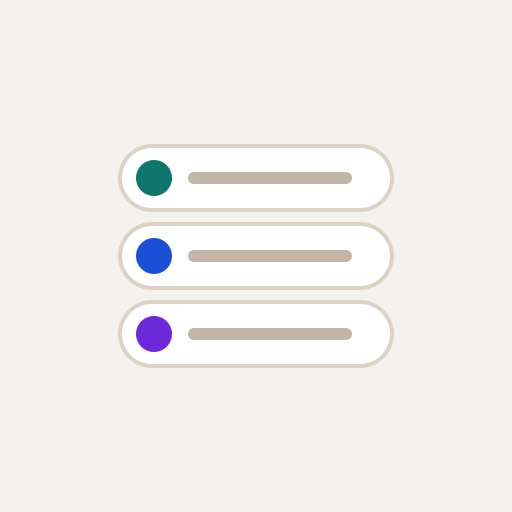
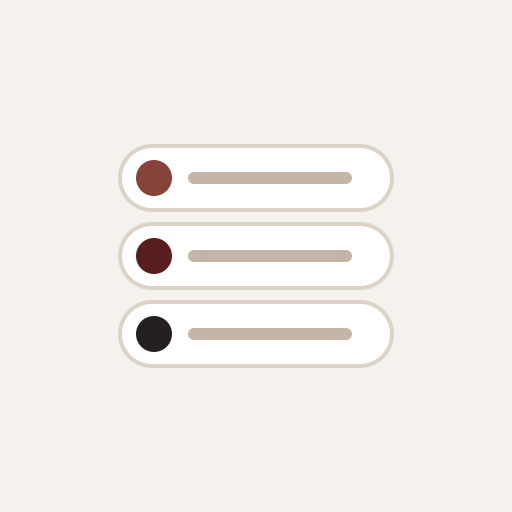
Nur Sorrida-Farben: Gruppenfarben und Hinweise in Bordeaux und Tinte
Die Leiste oben auf den Patientenseiten war je Gruppe blau, türkis oder lila.
Jetzt: Arzt Bordeaux aus dem Logo, Zahn helleres Bordeaux, Therapie Tinte.
Symbole und theme_color neu erzeugt. Weiß auf jeder Farbe mindestens 7 : 1.
Portal-Anamnesekarte, Rechnungsstatus und Hinweise in der App ohne Blau
und Lila. Kassenleistung im Bericht in Salbei.

Claude-Session: https://claude.ai/code/session_01WXeAyDovPdrJmoaZQnGZBQ

Changed region(s): [[0.25, 0.5938, 0.3438, 0.6875], [0.25, 0.4375, 0.3438, 0.5312], [0.25, 0.3125, 0.3438, 0.4062]]

diff --git a/e2e/meine-praxen.js b/e2e/meine-praxen.js
@@ -73,7 +73,7 @@ function aufraeumen() {
     pruef('Hausarzt: Titel der Web-App auf dem iPhone ist der kurze Praxisname', appleTitel === 'Weber', appleTitel);
     pruef('Hausarzt: Symbol im Tab und auf dem Startbildschirm aus der Gruppe', /gruppe-arzt\.svg/.test(await hp.locator('link[rel="icon"]').first().getAttribute('href')) && /gruppe-arzt-180\.png/.test(await hp.locator('link[rel="apple-touch-icon"]').getAttribute('href')));
     const manifestA = await (await hc.request.get(`${L}/portal/${tA}/manifest.webmanifest`)).json();
-    pruef('Hausarzt: Manifest mit kurzem Namen, Farbe und Symbol der Gruppe', manifestA.short_name === 'Weber' && manifestA.theme_color === '#1D4ED8' && manifestA.icons.every((i) => i.src.includes('gruppe-arzt')), JSON.stringify(manifestA).slice(0, 200));
+    pruef('Hausarzt: Manifest mit kurzem Namen, Farbe und Symbol der Gruppe', manifestA.short_name === 'Weber' && manifestA.theme_color === '#5A1D1D' && manifestA.icons.every((i) => i.src.includes('gruppe-arzt')), JSON.stringify(manifestA).slice(0, 200));
     await fotos(hp, '01-portal-hausarzt-390');
     await hp.getByTestId('praxis-merken-knopf').scrollIntoViewIfNeeded();
     await fotos(hp, '02-portal-hausarzt-fuss-390');
@@ -100,7 +100,7 @@ function aufraeumen() {
     pruef('Zahnarzt: Farbstreifen der Gruppe „zahn“', (await hp.getByTestId('praxis-streifen').getAttribute('data-gruppe')) === 'zahn');
     pruef('Zahnarzt: Fach und Ort', (await hp.getByTestId('praxis-kennzeile').innerText()) === 'Zahnarztpraxis · Münster');
     const manifestB = await (await hc.request.get(`${L}/portal/${tB}/manifest.webmanifest`)).json();
-    pruef('Zahnarzt: eigener kurzer Name und eigene Farbe', manifestB.short_name === 'Sonnenberg' && manifestB.theme_color === '#0F766E' && manifestB.short_name !== manifestA.short_name, JSON.stringify(manifestB).slice(0, 160));
+    pruef('Zahnarzt: eigener kurzer Name und eigene Farbe', manifestB.short_name === 'Sonnenberg' && manifestB.theme_color === '#86433A' && manifestB.short_name !== manifestA.short_name, JSON.stringify(manifestB).slice(0, 160));
     await fotos(hp, '05-portal-zahnarzt-390');
     await hp.getByTestId('praxis-merken-knopf').click();
     pruef('Zahnarzt: „Gemerkt“ nach dem Klick', await hp.getByTestId('praxis-gemerkt').isVisible());

diff --git a/lib/praxisGruppe.ts b/lib/praxisGruppe.ts
@@ -7,7 +7,10 @@
 // steht in lib/praxisKennung.ts.
 //
 // Die Farben sind fest und für alle Praxen einer Gruppe gleich. Sie sagen nur „welche Art Praxis“, nie „welche
-// Praxis ist besser“. Weiße Schrift und weiße Symbole erreichen auf jeder Farbe mindestens 4,5 : 1.
+// Praxis ist besser“. Es sind nur Sorrida-Farben (docs/GESTALTUNG.md): Bordeaux aus dem Logo, ein helleres
+// Bordeaux und Tinte. Kein Blau, Türkis oder Lila. Unterscheiden lassen sich die Gruppen vor allem am Symbol
+// (Zahn, Kreuz, Blatt) und an Fach und Ort unter dem Namen. Weiße Schrift und weiße Symbole erreichen auf jeder
+// Farbe mindestens 4,5 : 1.
 
 export const PRAXIS_GRUPPEN = ["zahn", "arzt", "therapie"] as const;
 export type PraxisGruppe = (typeof PRAXIS_GRUPPEN)[number];
@@ -24,9 +27,12 @@ export interface GruppenFarbe {
 }
 
 export const GRUPPEN_FARBE: Record<PraxisGruppe, GruppenFarbe> = {
-  zahn: { farbe: "#0F766E", farbeDunkel: "#5EEAD4", flaeche: "#F0FDFA", flaecheDunkel: "#10302D" },
-  arzt: { farbe: "#1D4ED8", farbeDunkel: "#93C5FD", flaeche: "#EFF6FF", flaecheDunkel: "#152544" },
-  therapie: { farbe: "#6D28D9", farbeDunkel: "#C4B5FD", flaeche: "#F5F3FF", flaecheDunkel: "#291C46" },
+  // helleres Bordeaux (brand-500), Kontrast zu Weiß 7,3 : 1
+  zahn: { farbe: "#86433A", farbeDunkel: "#D9A096", flaeche: "#F0E2DF", flaecheDunkel: "#52302B" },
+  // Bordeaux aus dem Logo (brand-700), 13,6 : 1
+  arzt: { farbe: "#5A1D1D", farbeDunkel: "#E6B6AD", flaeche: "#F8F1F0", flaecheDunkel: "#3F2623" },
+  // Tinte der Website, 16 : 1
+  therapie: { farbe: "#24201F", farbeDunkel: "#ECE5DC", flaeche: "#ECE5DC", flaecheDunkel: "#33211F" },
 };
 
 /** Statische Symbole je Gruppe unter public/brand (erzeugt mit scripts/gruppenSymbole.mjs, selbst gezeichnet). */

diff --git a/components/PortalInvoice.tsx b/components/PortalInvoice.tsx
@@ -153,7 +153,7 @@ export function PortalInvoice({ token, inv, bank, t, startOpen, mandat, pruefung
         <p className="shrink-0 text-lg font-semibold tabular-nums text-slate-900">{inv.amount}</p>
       </div>
       <div className="mt-3 flex items-center justify-between gap-3">
-        <span className={`text-sm ${reported ? "text-sky-800" : inv.tone === "red" ? "font-medium text-red-700" : "text-slate-600"}`} data-testid="invoice-status">{reported && !inv.reported ? t.reportedLabel : inv.status}</span>
+        <span className={`text-sm ${reported ? "text-brand-700" : inv.tone === "red" ? "font-medium text-red-700" : "text-slate-600"}`} data-testid="invoice-status">{reported && !inv.reported ? t.reportedLabel : inv.status}</span>
         {!reported && (
           <button type="button" onClick={() => setOpen((o) => !o)} aria-expanded={open} className="rounded-full bg-salbei-600 px-4 py-2 text-sm font-semibold text-white hover:bg-salbei-700">
             {open ? t.hide : t.pay}
@@ -231,7 +231,7 @@ export function PortalInvoice({ token, inv, bank, t, startOpen, mandat, pruefung
           {!RATEN_ANGEHALTEN && raten && <p className="mt-2 text-xs text-slate-600">{t.installmentsDone}</p>}
         </div>
       )}
-      {reported && <p className="mt-3 text-sm text-sky-800" role="status">{t.reportedDone}</p>}
+      {reported && <p className="mt-3 text-sm text-brand-700" role="status">{t.reportedDone}</p>}
       {/* Nach „Ich habe überwiesen“ bleiben die Zahlungsdaten erreichbar, falls doch noch überwiesen werden muss. */}
       {reported && bank && (
         <details className="mt-2 text-sm" data-testid="zahlungsdaten-nach-meldung">

diff --git a/app/portal/[token]/page.tsx b/app/portal/[token]/page.tsx
@@ -351,12 +351,12 @@ export default async function PortalPage(props: { params: Promise<{ token: strin
             <ul className="mt-3 space-y-3">
               {patient.anamnesisForms.map((f) => (
                 <li key={f.id}>
-                  <a href={`/portal/${params.token}/anamnese/${f.id}${sprachZusatz}`} className="flex items-center justify-between gap-3 rounded-2xl bg-sky-50 p-4 hover:bg-sky-100" data-testid="portal-anamnese">
+                  <a href={`/portal/${params.token}/anamnese/${f.id}${sprachZusatz}`} className="flex items-center justify-between gap-3 rounded-2xl bg-brand-50 p-4 hover:bg-brand-100" data-testid="portal-anamnese">
                     <span>
                       <span className="block font-medium text-slate-900">{t.anamnesisTitle}</span>
                       <span className="text-sm text-slate-600">{t.anamnesis}</span>
                     </span>
-                    <span className="shrink-0 rounded-full bg-sky-700 px-3 py-1 text-sm font-medium text-white">{t.fillIn}</span>
+                    <span className="shrink-0 rounded-full bg-brand-700 px-3 py-1 text-sm font-medium text-white">{t.fillIn}</span>
                   </a>
                 </li>
               ))}

diff --git a/components/ReportEditor.tsx b/components/ReportEditor.tsx
@@ -164,7 +164,7 @@ export function ReportEditor({
       </div>
 
       {text.startsWith("[TESTMODUS") ? (
-        <p className="mb-4 rounded-lg bg-purple-50 px-3 py-2 text-sm text-purple-800">
+        <p className="mb-4 rounded-lg bg-brand-50 px-3 py-2 text-sm text-brand-800">
           Dieser Bericht wurde im <strong>Testmodus</strong> ohne KI-Verbindung erstellt (nur die
           erfassten Daten zusammengestellt, kein ausformulierter Text). Für echte KI-Formulierung ist
           serverseitig ein Anthropic-API-Key mit Guthaben hinterlegt und der Bericht neu zu generieren.
@@ -306,9 +306,9 @@ export function ReportEditor({
             const badge = kassenLabel(entry.catalogItem.system);
             const badgeClass =
               badge.tone === "gkv"
-                ? "bg-blue-50 text-blue-700"
+                ? "bg-salbei-50 text-salbei-700"
                 : badge.tone === "privat"
-                  ? "bg-purple-50 text-purple-700"
+                  ? "bg-brand-50 text-brand-700"
                   : badge.tone === "labor"
                     ? "bg-amber-50 text-amber-700"
                     : "bg-slate-100 text-slate-500";

diff --git a/components/CatalogSettings.tsx b/components/CatalogSettings.tsx
@@ -146,13 +146,13 @@ export function CatalogSettings({ readOnly = false, systeme, regionLabel }: { re
       <div data-hilfe="katalog-eigene">
         <LeistungSchnell offen titel="Eigene Leistung schnell anlegen" beispiel={leistungsBeispiel(systeme)} onCreated={() => load(true)} />
       </div>
-      <p className="rounded-lg bg-blue-50 px-3 py-2 text-sm text-blue-800">
+      <p className="rounded-lg bg-brand-50 px-3 py-2 text-sm text-brand-800">
         Punktzahl und Festbetrag sind objektive Werte aus dem offiziellen Gebührenverzeichnis
         {verzeichnisse ? ` (${verzeichnisse}) ` : " "}und daher für alle Praxen geteilt, die diesen Referenzkatalog nutzen,
         nicht praxisspezifisch wie der Punktwert unter „Abrechnung“. Bitte gegen das aktuell
         gültige Verzeichnis prüfen, bevor Sie Werte eintragen. Ausschluss-Regeln,
         Gültigkeitszeiträume und Frequenzlimits lassen sich weiterhin nur über
-        <code className="mx-1 rounded bg-blue-100 px-1 text-xs">prisma/seed.ts</code>
+        <code className="mx-1 rounded bg-brand-100 px-1 text-xs">prisma/seed.ts</code>
         pflegen.
       </p>
 

diff --git a/components/TerminUeberblick.tsx b/components/TerminUeberblick.tsx
@@ -43,8 +43,8 @@ export function TerminUeberblick({ patientId, briefing, ki }: { patientId: strin
       </dl>
       <div className="mt-4 border-t border-slate-100 pt-3">
         {text ? (
-          <div className="rounded-xl bg-purple-50 p-3 text-sm text-purple-950" data-testid="ueberblick-ki">
-            <p className="text-xs font-semibold uppercase tracking-wide text-purple-700">KI-Entwurf, bitte gegen die Akte prüfen</p>
+          <div className="rounded-xl bg-brand-50 p-3 text-sm text-tinte" data-testid="ueberblick-ki">
+            <p className="text-xs font-semibold uppercase tracking-wide text-brand-700">KI-Entwurf, bitte gegen die Akte prüfen</p>
             <p className="mt-1">{text}</p>
           </div>
         ) : ki ? (

diff --git a/components/TemplateEditor.tsx b/components/TemplateEditor.tsx
@@ -128,7 +128,7 @@ export function TemplateEditor({ templateId, readOnly = false }: { templateId: s
 
   return (
     <div className="space-y-6">
-      <Link href="/settings/templates" className="text-sm text-blue-700 hover:underline">
+      <Link href="/settings/templates" className="text-sm text-brand-700 hover:underline">
         ← Alle Vorlagen
       </Link>
 
